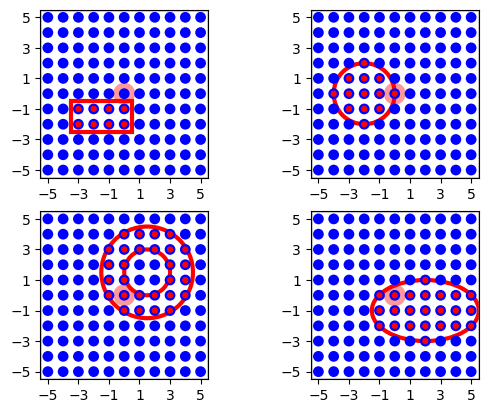
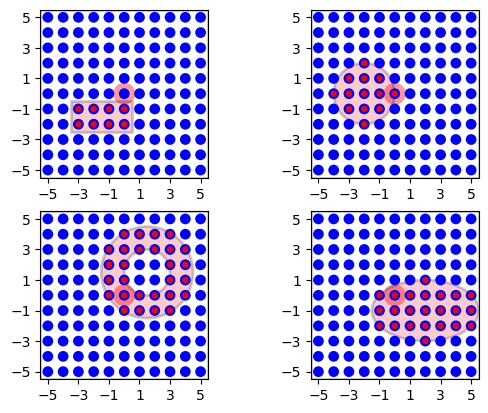
Update connections spatial script to newest changes in nest 3.0

diff --git a/doc/topology/user_manual_scripts/connections.py b/doc/topology/user_manual_scripts/connections.py
@@ -37,13 +37,13 @@ def beautify_layer(l, fig=plt.gcf(), xlabel=None, ylabel=None,
     ext = l.spatial['extent']
 
     if xticks is None:
-        if 'rows' in l.spatial:
-            dx = float(ext[0]) / l.spatial['columns']
-            dy = float(ext[1]) / l.spatial['rows']
+        if 'shape' in l.spatial:
+            dx = float(ext[0]) / l.spatial['shape'][0]
+            dy = float(ext[1]) / l.spatial['shape'][1]
             xticks = ctr[0] - ext[0] / 2. + dx / 2. + dx * np.arange(
-                l.spatial['columns'])
+                l.spatial['shape'][0])
             yticks = ctr[1] - ext[1] / 2. + dy / 2. + dy * np.arange(
-                l.spatial['rows'])
+                l.spatial['shape'][1])
 
     if xlim is None:
         xlim = [ctr[0] - ext[0] / 2. - dx / 2., ctr[0] + ext[
@@ -69,7 +69,7 @@ def conn_figure(fig, layer, connd, targets=None, showmask=True, kern=None,
                 xticks=range(-5, 6), yticks=range(-5, 6),
                 xlim=[-5.5, 5.5], ylim=[-5.5, 5.5]):
     if targets is None:
-        targets = ((layer[layer.index(nest.FindCenterElement(layer))][0], 'red'),)
+        targets = ((nest.FindCenterElement(layer), 'red'),)
 
     nest.PlotLayer(layer, fig=fig, nodesize=60)
     for src, clr in targets:
@@ -77,9 +77,9 @@ def conn_figure(fig, layer, connd, targets=None, showmask=True, kern=None,
             mask = connd['mask']
         else:
             mask = None
-        nest.PlotTargets(src, layer, fig=fig, mask=mask, kernel=kern,
-                         src_size=250, tgt_color=clr, tgt_size=20,
-                         kernel_color='green')
+        nest.PlotTargets(src, layer, fig=fig, mask=mask, probability_parameter=kern,
+                         src_size=250, tgt_color=clr, tgt_size=20, mask_color='red',
+                         probability_cmap='Greens')
 
     beautify_layer(layer, fig,
                    xlim=xlim, ylim=ylim, xticks=xticks, yticks=yticks,
@@ -93,7 +93,7 @@ def conn_figure(fig, layer, connd, targets=None, showmask=True, kern=None,
 
 #{ conn1 #}
 l = nest.Create('iaf_psc_alpha',
-                positions=nest.spatial.grid(rows=11, columns=11, extent=[11., 11.]))
+                positions=nest.spatial.grid(shape=[11, 11], extent=[11., 11.]))
 conndict = {'rule': 'pairwise_bernoulli',
             'p': 1.0,
             'mask': {'rectangular': {'lower_left': [-2., -1.],
@@ -104,19 +104,19 @@ nest.Connect(l, l, conndict)
 fig = plt.figure()
 fig.add_subplot(121)
 conn_figure(fig, l, conndict,
-            targets=((l[l.index(nest.FindCenterElement(l))], 'red'),
-                     (l[l.index(nest.FindNearestElement(l, [4., 5.])[0])], 'yellow')))
+            targets=((nest.FindCenterElement(l), 'red'),
+                     (nest.FindNearestElement(l, [4., 5.])[0], 'yellow')))
 
 # same another time, with periodic bcs
 lpbc = nest.Create('iaf_psc_alpha',
                    positions=nest.spatial.grid(
-                       rows=11, columns=11, extent=[11., 11.],
+                       shape=[11, 11], extent=[11., 11.],
                        edge_wrap=True))
 nest.Connect(lpbc, lpbc, conndict)
 fig.add_subplot(122)
 conn_figure(fig, lpbc, conndict, showmask=False,
-            targets=((lpbc[lpbc.index(nest.FindCenterElement(lpbc))], 'red'),
-                     (lpbc[lpbc.index(nest.FindNearestElement(lpbc, [4., 5.])[0])], 'yellow')))
+            targets=((nest.FindCenterElement(lpbc), 'red'),
+                     (nest.FindNearestElement(lpbc, [4., 5.])[0], 'yellow')))
 
 plt.savefig('../user_manual_figures/conn1.png', bbox_inches='tight')
 
@@ -128,7 +128,7 @@ plt.savefig('../user_manual_figures/conn1.png', bbox_inches='tight')
 def free_mask_fig(fig, loc, cdict):
     nest.ResetKernel()
     l = nest.Create('iaf_psc_alpha',
-                    positions=nest.spatial.grid(rows=11, columns=11, extent=[11., 11.]))
+                    positions=nest.spatial.grid(shape=[11, 11], extent=[11., 11.]))
     nest.Connect(l, l, cdict)
 
     fig.add_subplot(loc)
@@ -244,7 +244,7 @@ def conn_figure_3d(fig, layer, connd, targets=None, showmask=True,
                    xticks=range(-5, 6), yticks=range(-5, 6),
                    xlim=[-5.5, 5.5], ylim=[-5.5, 5.5]):
     if targets is None:
-        targets = ((layer[layer.index(nest.FindCenterElement(layer))], 'red'),)
+        targets = ((nest.FindCenterElement(layer), 'red'),)
 
     nest.PlotLayer(layer, fig=fig, nodesize=20, nodecolor=(.5, .5, 1.))
     for src, clr in targets:
@@ -252,9 +252,9 @@ def conn_figure_3d(fig, layer, connd, targets=None, showmask=True,
             mask = connd['mask']
         else:
             mask = None
-        nest.PlotTargets(src, layer, fig=fig, mask=mask, kernel=None,
+        nest.PlotTargets(src, layer, fig=fig, mask=mask, probability_parameter=None,
                          src_size=250, tgt_color=clr, tgt_size=60,
-                         kernel_color='green')
+                         probability_cmap='Greens')
 
     ax = fig.gca()
     # ax.set_aspect('equal', 'box')
@@ -265,9 +265,7 @@ def free_mask_3d_fig(fig, loc, cdict):
     nest.ResetKernel()
     l = nest.Create('iaf_psc_alpha',
                     positions=nest.spatial.grid(
-                        rows=11,
-                        columns=11,
-                        depth=11,
+                        shape=[11, 11, 11],
                         extent=[11., 11., 11.]))
     nest.Connect(l, l, cdict)
 
@@ -311,8 +309,7 @@ conndict = {'rule': 'pairwise_bernoulli',
 def grid_mask_fig(fig, loc, cdict):
     nest.ResetKernel()
     l = nest.Create('iaf_psc_alpha',
-                    positions=nest.spatial.grid(rows=11,
-                                                columns=11,
+                    positions=nest.spatial.grid(shape=[11, 11],
                                                 extent=[11., 11.]))
     nest.Connect(l, l, cdict)
 
@@ -326,23 +323,23 @@ fig = plt.figure()
 #{ conn3 #}
 conndict = {'rule': 'pairwise_bernoulli',
             'p': 1.0,
-            'mask': {'grid': {'rows': 3, 'columns': 5}}}
+            'mask': {'grid': {'shape': [5, 3]}}}
 #{ end #}
 grid_mask_fig(fig, 131, conndict)
 
 #{ conn3c #}
 conndict = {'rule': 'pairwise_bernoulli',
             'p': 1.0,
-            'mask': {'grid': {'rows': 3, 'columns': 5},
-                     'anchor': {'row': 1, 'column': 2}}}
+            'mask': {'grid': {'shape': [5, 1]},
+                     'anchor': [2, 1]}}
 #{ end #}
 grid_mask_fig(fig, 132, conndict)
 
 #{ conn3x #}
 conndict = {'rule': 'pairwise_bernoulli',
             'p': 1.0,
-            'mask': {'grid': {'rows': 3, 'columns': 5},
-                     'anchor': {'row': -1, 'column': 2}}}
+            'mask': {'grid': {'shape': [3, 5]},
+                     'anchor': [2, -1]}}
 #{ end #}
 grid_mask_fig(fig, 133, conndict)
 
@@ -357,8 +354,7 @@ def kernel_fig(fig, loc, cdict, kern=None):
     nest.ResetKernel()
     l = nest.Create('iaf_psc_alpha',
                     positions=nest.spatial.grid(
-                        rows=11,
-                        columns=11,
+                        shape=[11, 11],
                         extent=[11., 11.]))
     nest.Connect(l, l, cdict)
 
@@ -374,14 +370,14 @@ conndict = {'rule': 'pairwise_bernoulli',
             'p': 0.5,
             'mask': {'circular': {'radius': 4.}}}
 #{ end #}
-kernel_fig(fig, 231, conndict, kern=0.5)
+kernel_fig(fig, 231, conndict)
 
 #{ conn4g #}
 conndict = {'rule': 'pairwise_bernoulli',
             'p': nest.spatial_distributions.gaussian(nest.spatial.distance, std=1.0),
             'mask': {'circular': {'radius': 4.}}}
 #{ end #}
-kernel_fig(fig, 232, conndict, kern={'gaussian': {'p_center': 1.0, 'sigma': 1.0}})
+kernel_fig(fig, 232, conndict, kern=nest.spatial_distributions.gaussian(nest.spatial.distance, std=1.0))
 
 #{ conn4cut #}
 distribution = nest.spatial_distributions.gaussian(nest.spatial.distance, std=1.0)
@@ -437,7 +433,7 @@ def wd_fig(fig, loc, pos, cdict, sdict, what, rpos=None,
 fig = plt.figure()
 
 #{ conn5lin #}
-pos = nest.spatial.grid(rows=1, columns=51, extent=[51., 1.], center=[25., 0.])
+pos = nest.spatial.grid(shape=[51, 1], extent=[51., 1.], center=[25., 0.])
 cdict = {'rule': 'pairwise_bernoulli',
          'p': 1.0,
          'mask': {'rectangular': {'lower_left': [-25.5, -0.5],
@@ -449,7 +445,7 @@ wd_fig(fig, 311, pos, cdict, sdict, 'weight', label='Weight')
 wd_fig(fig, 311, pos, cdict, sdict, 'delay', label='Delay', clr='red')
 fig.gca().legend()
 
-ppos = nest.spatial.grid(rows=1, columns=51,
+ppos = nest.spatial.grid(shape=[51, 1],
                          extent=[51., 1.],
                          center=[25., 0.],
                          edge_wrap=True)
@@ -515,8 +511,7 @@ parameter = 0.5 + nest.spatial.distance.x + 2. * nest.spatial.distance.y
 
 #{ conn_param_design_ex #}
 l = nest.Create('iaf_psc_alpha',
-                positions=nest.spatial.grid(rows=11,
-                                            columns=11,
+                positions=nest.spatial.grid(shape=[11, 11],
                                             extent=[1., 1.]))
 nest.Connect(l, l, {'rule': 'pairwise_bernoulli',
                     'p': parameter,
@@ -535,9 +530,8 @@ def pn_fig(fig, loc, l, cdict,
     ax = fig.add_subplot(loc)
 
     conns = nest.GetConnections(l)
-    first_node_id = list(l[0])[0]  # hack to map node ID to layer index
-    dist = np.array([nest.Distance(l[s - first_node_id],
-                                   l[t - first_node_id])
+    dist = np.array([nest.Distance(l[l.index(s)],
+                                   l[l.index(t)])
                      for s, t in zip(conns.sources(), conns.targets())])
     ax.hist(dist, bins=50, histtype='stepfilled', density=True)
     r = np.arange(0., 0.51, 0.01)
@@ -604,19 +598,19 @@ nest.ResetKernel()
 nest.CopyModel('static_synapse', 'exc', {'weight': 2.0})
 nest.CopyModel('static_synapse', 'inh', {'weight': -8.0})
 
-pos = nest.spatial.grid(rows=10, columns=10)
+pos = nest.spatial.grid(shape=[10, 10])
 l_ex = nest.Create('iaf_psc_alpha', positions=pos)
 l_in = nest.Create('iaf_psc_alpha', positions=pos)
 
 nest.Connect(l_ex, l_in, {'rule': 'pairwise_bernoulli',
                           'p': 0.8,
-                          'mask': {'circular': {'radius': 0.5}},
-                          'synapse_model': 'exc'})
+                          'mask': {'circular': {'radius': 0.5}}},
+                          {'synapse_model': 'exc'})
 nest.Connect(l_in, l_ex, {'rule': 'pairwise_bernoulli',
                           'p': 1.0,
                           'mask': {'rectangular': {'lower_left': [-0.2, -0.2],
-                                                   'upper_right': [0.2, 0.2]}},
-                          'synapse_model': 'inh'})
+                                                   'upper_right': [0.2, 0.2]}}},
+                          {'synapse_model': 'inh'})
 #{ end #}
 
 
@@ -624,10 +618,10 @@ nest.Connect(l_in, l_ex, {'rule': 'pairwise_bernoulli',
 
 #{ conn9 #}
 nrn_layer = nest.Create(
-    'iaf_psc_alpha', positions=nest.spatial.grid(rows=20, columns=20))
+    'iaf_psc_alpha', positions=nest.spatial.grid(shape=[20, 20]))
 
 stim = nest.Create('poisson_generator',
-                   positions=nest.spatial.grid(rows=1, columns=1))
+                   positions=nest.spatial.grid(shape=[1, 1]))
 
 cdict_stim = {'rule': 'pairwise_bernoulli',
               'p': 1.0,
@@ -642,7 +636,7 @@ nest.Connect(stim, nrn_layer, cdict_stim)
 
 #{ conn10 #}
 rec = nest.Create('spike_detector',
-                  positions=nest.spatial.grid(rows=1, columns=1))
+                  positions=nest.spatial.grid(shape=[1, 1]))
 
 cdict_rec = {'rule': 'pairwise_bernoulli',
              'p': 1.0,
